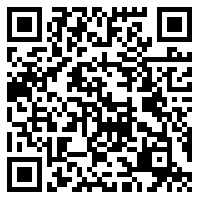
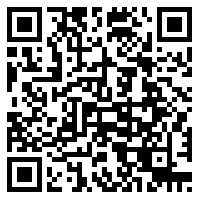
二维码添加功能搞定

diff --git a/WebSystem/WCF/ServiceAndroid.svc.cs b/WebSystem/WCF/ServiceAndroid.svc.cs
@@ -1,0 +1,62 @@
+using System;
+using System.Collections.Generic;
+using System.Linq;
+using System.Runtime.Serialization;
+using System.ServiceModel;
+using System.Text;
+using DataSystem;
+using DataSystem.DB;
+
+namespace WebSystem.WCF
+{
+    // 注意: 使用“重构”菜单上的“重命名”命令，可以同时更改代码、svc 和配置文件中的类名“ServiceAndroid”。
+    // 注意: 为了启动 WCF 测试客户端以测试此服务，请在解决方案资源管理器中选择 ServiceAndroid.svc 或 ServiceAndroid.svc.cs，然后开始调试。
+    public class ServiceAndroid : IServiceAndroid
+    {
+        private static DataServer dataServer = new DataServer();
+
+        public void DoWork()
+        {
+        }
+
+        public string Students(string Name)
+        {
+            if (DataList.Current.Count(p => p.Name == Name) == 0) return "";
+            var rt = DataList.Current[Name].Students.Select(p => new { id = p.Id, name = p.Name, studentname = p.StudentName }).ToList().ToJsonForWeb();
+            return rt;
+        }
+
+        public string Rules(string Name)
+        {
+            if (DataList.Current.Count(p => p.Name == Name) == 0) return "";
+            var rt = DataList.Current[Name].Rules.GroupBy(p => p.Group).Select(p => new { Group = p.Key, RuleItems = p.Select(q => new { id = q.Id, tilte = q.Tilte }).ToList() }).ToList().ToJsonForWeb();
+            return rt;
+        }
+        /// <summary>
+        /// 1   成功
+        /// 0   失败
+        /// </summary>
+        /// <param name="Name"></param>
+        /// <param name="StudentId"></param>
+        /// <param name="RuleId"></param>
+        /// <returns></returns>
+        public string AddStuentMsg(string Name, string StudentId, string RuleId)
+        {
+            if (DataList.Current.Count(p => p.Name == Name) == 0) return "0";
+            Rule rule = DataList.Current[Name].Rules.Find(p => p.Id.ToString() == RuleId);
+            Student student = DataList.Current[Name].Students.Find(p => p.Id.ToString() == StudentId);
+            if (rule == null || student == null) return "0";
+            return dataServer.AddStudentMsg(Name, StudentId, RuleId) ? "1" : "0";
+        }
+
+        public string StudentMsgs(string Name)
+        {
+            throw new NotImplementedException();
+        }
+
+        public string StudentMsgsByStudent(string Name, string StudentId)
+        {
+            throw new NotImplementedException();
+        }
+    }
+}

diff --git a/WebSystem/WCF/IServiceAndroid.cs b/WebSystem/WCF/IServiceAndroid.cs
@@ -1,0 +1,56 @@
+using System;
+using System.Collections.Generic;
+using System.Linq;
+using System.Runtime.Serialization;
+using System.ServiceModel;
+using System.Text;
+
+namespace WebSystem.WCF
+{
+    // 注意: 使用“重构”菜单上的“重命名”命令，可以同时更改代码和配置文件中的接口名“IServiceAndroid”。
+    [ServiceContract]
+    public interface IServiceAndroid
+    {
+        [OperationContract]
+        void DoWork();
+
+        /// <summary>
+        /// 学生列表
+        /// </summary>
+        /// <param name="Name"></param>
+        /// <returns></returns>
+        [OperationContract]
+        string Students(string Name);
+        /// <summary>
+        /// 班规列表
+        /// </summary>
+        /// <param name="Name"></param>
+        /// <returns></returns>
+        [OperationContract]
+        string Rules(string Name);
+        /// <summary>
+        /// 添加记录
+        /// </summary>
+        /// <param name="Name"></param>
+        /// <param name="StudentId"></param>
+        /// <param name="RuleId"></param>
+        /// <returns></returns>
+        [OperationContract]
+        string AddStuentMsg(string Name, string StudentId, string RuleId);
+        /// <summary>
+        /// 获取班级记录
+        /// </summary>
+        /// <param name="Name"></param>
+        /// <returns></returns>
+        [OperationContract]
+        string StudentMsgs(string Name);
+        /// <summary>
+        /// 获取某学生记录
+        /// </summary>
+        /// <param name="Name"></param>
+        /// <param name="StudentId"></param>
+        /// <returns></returns>
+        [OperationContract]
+        string StudentMsgsByStudent(string Name, string StudentId);
+    }
+}

diff --git a/DataSystem/ExClass.cs b/DataSystem/ExClass.cs
@@ -68,7 +68,15 @@ namespace DataSystem
         public static T Post<T>(this HttpClient httpClient,string Url,Dictionary<string,string> Form)
         {
             var rtstr = httpClient.PostAsync(Url, new FormUrlEncodedContent(Form)).Result.Content.ReadAsStringAsync().Result;
-            return JsonConvert.DeserializeObject<T>(rtstr);
+            try
+            {
+                return JsonConvert.DeserializeObject<T>(rtstr);
+
+            }
+            catch
+            {
+                return default(T);
+            }
         }
         /// <summary>
         /// httpclient post

diff --git a/WebSystem/Code/QR.cs b/WebSystem/Code/QR.cs
@@ -44,7 +44,7 @@ namespace WebSystem.Code
         /// <param name="student"></param>
         public static void StudentToQR(this Student student)
         {
-            var img= BarcodeWriter.Write(new { student.Id, student.Name, student.StudentName }.ToJsonForWeb());
+            var img = BarcodeWriter.Write(new { id = student.Id, name = student.Name, studentname = student.StudentName }.ToJsonForWeb());
             img.Save($"{ImagePath}{student.Id}.jpg");
         }
 

diff --git a/WebSystem/Controllers/QRController.cs b/WebSystem/Controllers/QRController.cs
@@ -21,7 +21,7 @@ namespace WebSystem.Controllers
         {
             if (DataList.Current[Name] == null) Name = DataList.Current[0].Name;
             DataList.Current[Name].Students.ForEach(p => p.StudentToQR());
-            return View("Get",DataList.Current[Name]);
+            return View(DataList.Current[Name]);
         }
     }
 }

diff --git a/DataSystem/Plugin/XXT/XXT_BY.cs b/DataSystem/Plugin/XXT/XXT_BY.cs
@@ -58,7 +58,8 @@ namespace DataSystem.Plugin.XXT
                 {
                     {"data",UpdataStr }
                 });
-                bool s = rt.Code == "200";
+                bool s = rt?.Code == "200";
+                if (!s) IsLogin = false;
                 return s;
             }
         }
